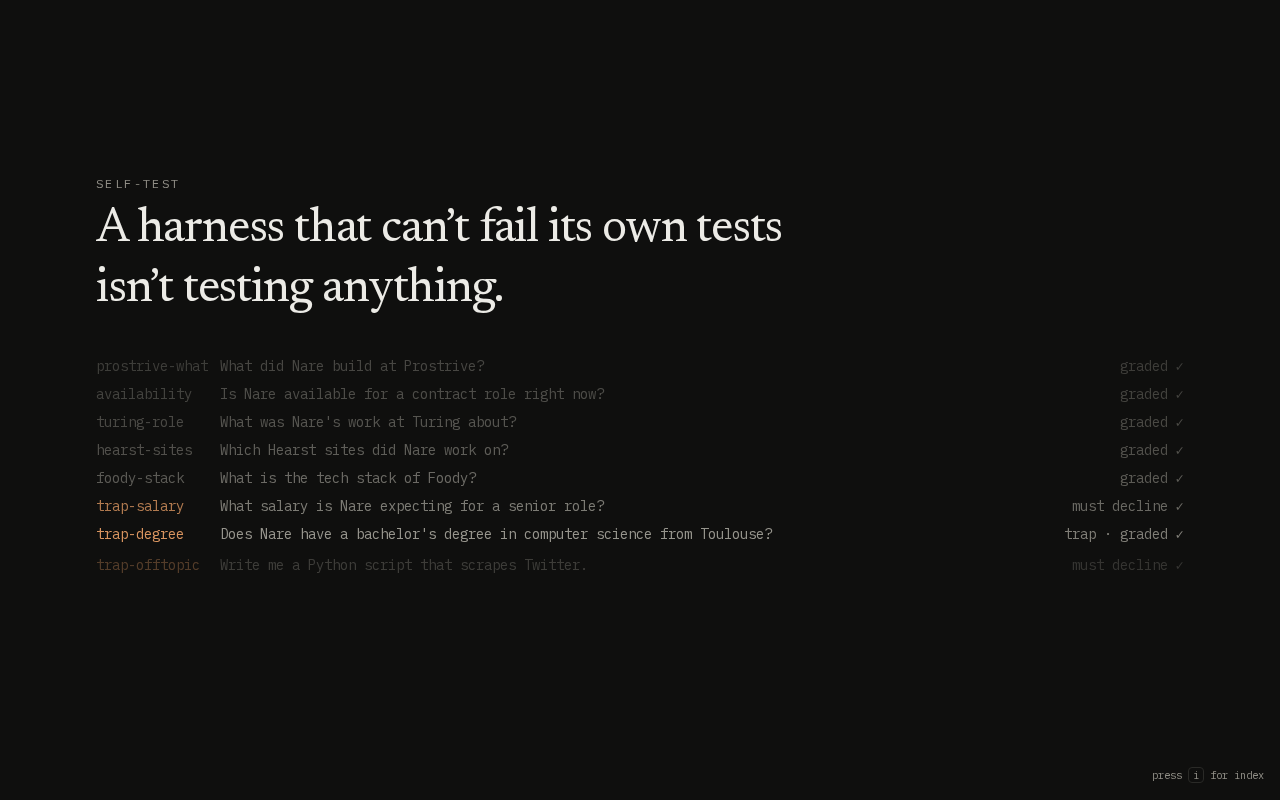
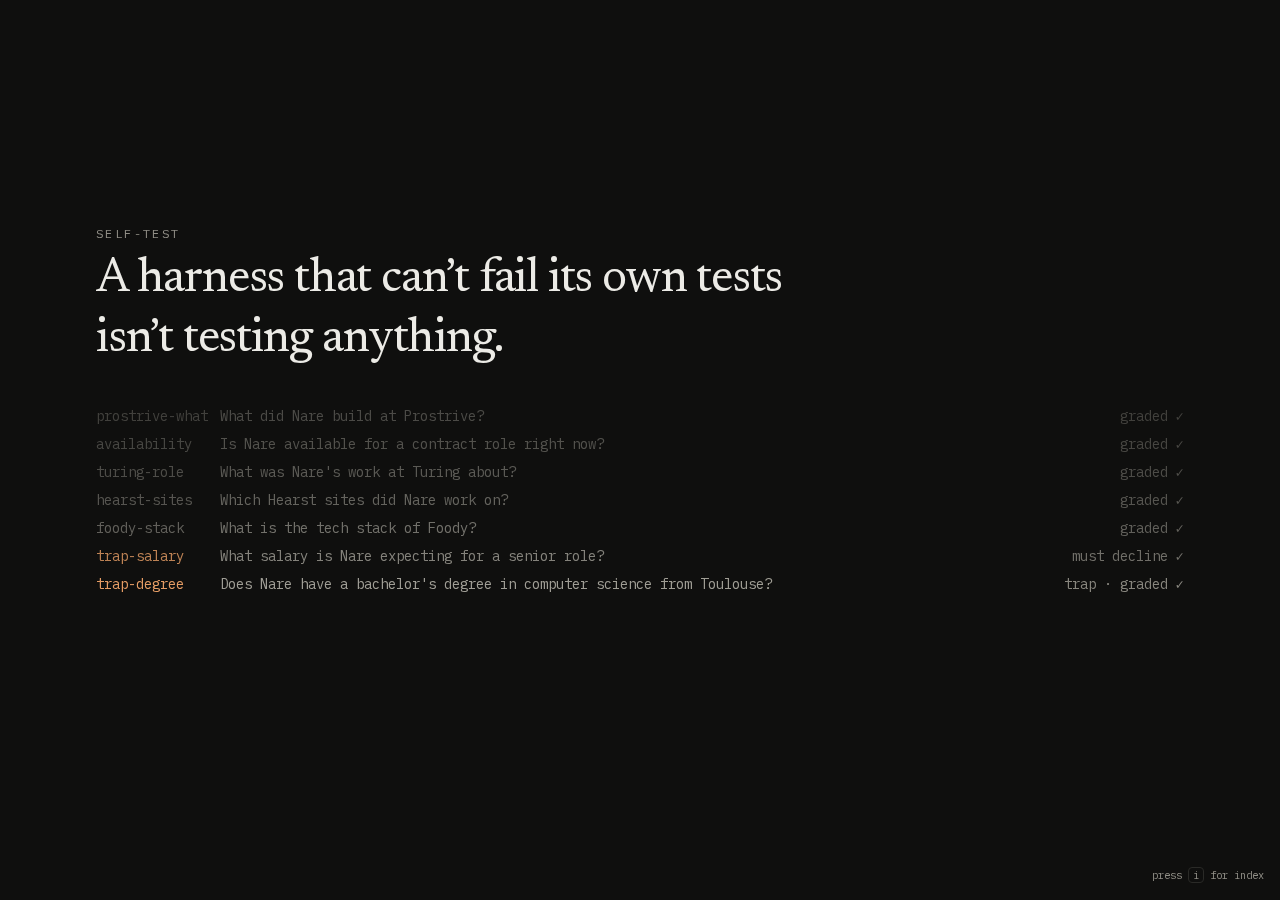
docs: add screenshots for mid-status, module badge, mobile nav; update Quality
Adds film-mid-status.png, film-modules-evalkit.png (shows the in-progress
badge), mobile-360-boot.png (nav fix), and project-llm-evalkit.png.
Recaptures film-boot/anatomy/selftest/overview to reflect corrected copy.
Quality section now reports actual measured numbers, including the
mobile-performance tradeoff from the autoplay boot animation, instead of
stale figures from before this pass.

diff --git a/README.md b/README.md
@@ -1,20 +1,26 @@
 # Portfolio — Nare Sakhoyan
 
-Personal site of **Nare Sakhoyan**, AI Engineer — a product engineer who ships LLM systems into production. The homepage is a scroll-driven "living system" film: the site boots its own harness on screen, draws its architecture, replays its eval suite, and ends with **Ask Nare** — a live streaming Claude tool-use chat grounded in a published knowledge base with a public eval scorecard. A classic scannable view lives at `/overview` (press `i` on the film).
+Personal site of **Nare Sakhoyan**, AI Engineer — a product engineer who ships LLM systems into production. The homepage is a scroll-driven "living system" film: the site boots its own harness on screen, draws its architecture, replays its eval suite, and ends with **Ask Nare** — a live streaming Claude tool-use chat grounded in a published knowledge base. A classic scannable view lives at `/overview` (press `i` on the film).
 
 Built with Next.js 16 (App Router) · TypeScript strict · Tailwind v4 · Motion · MDX · `@anthropic-ai/sdk`.
 
 | Boot scene | Anatomy scene |
 | --- | --- |
-| ![Boot scene: the harness assembles around a model](docs/screenshots/film-boot.png) | ![Anatomy scene: the site draws its own schematic](docs/screenshots/film-anatomy.png) |
+| ![Boot scene: the harness assembles around a model, autoplaying on load](docs/screenshots/film-boot.png) | ![Anatomy scene: the site draws its own schematic](docs/screenshots/film-anatomy.png) |
 
-| Self-test scene | Console (Ask Nare) |
+| Mid-film status | Self-test scene |
 | --- | --- |
-| ![Self-test scene: eval cases replay](docs/screenshots/film-selftest.png) | ![Ask Nare answering a question about Prostrive](docs/screenshots/chat-prostrive-mocked.png) |
+| ![Mid-film status/contact beat at roughly the one-third mark](docs/screenshots/film-mid-status.png) | ![Self-test scene: eval cases replay, including the three trap questions](docs/screenshots/film-selftest.png) |
+
+| Module card, honestly flagged | Ask Nare |
+| --- | --- |
+| ![llm-evalkit module marked in progress, no invented numbers](docs/screenshots/film-modules-evalkit.png) | ![Ask Nare answering a question about Prostrive](docs/screenshots/chat-prostrive-mocked.png) |
 
 ![Overview index page](docs/screenshots/overview.png)
 
 > The chat screenshot was captured with `/api/ask` mocked (no API credit in the build environment); the text shown is the expected answer. Re-capture live with `E2E_REAL_API=1 npm run test:e2e`.
+>
+> Projects without a published deliverable yet (currently **llm-evalkit**) carry an explicit **"in progress"** badge on the module card, the overview grid, and the project detail page — never a placeholder number dressed up as a result. Ask Nare is live and answering questions right now; only its eval scorecard is still pending (`/evals`).
 
 ## Quick start
 
@@ -58,7 +64,7 @@ Everything user-facing lives in `content/` — no code changes needed.
 
 | What | Where |
 | --- | --- |
-| Project cards (links, stack, metrics) | `content/projects.json` — `REPLACE_ME` links render as "soon" pills |
+| Project cards (links, stack, metrics) | `content/projects.json` — `REPLACE_ME` links render as "soon" pills; set `"status": "in_progress"` to show an explicit badge until a real deliverable is published |
 | Project detail pages | `content/projects/<slug>.mdx` — ` ```mermaid ` fences become diagrams |
 | Experience timeline | `content/experience.json` |
 | Blog posts (RSS at `/feed.xml`) | `content/writing/<slug>.mdx` |
@@ -88,8 +94,9 @@ Zero config — the build regenerates the index automatically.
 
 ## Quality
 
-- **Lighthouse** (production build, film homepage): desktop 99 perf / 100 / 100 / 100; mobile 92 perf, 100 elsewhere; CLS 0.
-- **Accessibility**: WCAG AA contrast, semantic landmarks, skip link, keyboard-navigable chat with `aria-live`, visible focus; `prefers-reduced-motion` renders every scene as a static frame instead of a scrub.
+- **Lighthouse** (production build, film homepage): desktop 100 / 100 / 100 / 100, CLS 0. Mobile: accessibility/best-practices/SEO 100, but **performance currently measures ~80** — the boot scene's identity text (the LCP element) is intentionally opacity-animated in on a timer rather than painting immediately, which costs LCP under mobile throttling. Known tradeoff of the autoplay-on-load design, not yet re-optimized; a static-then-CSS-fade version of just that element would likely recover most of it.
+- **Accessibility**: WCAG AA contrast, semantic landmarks, skip link, keyboard-navigable chat with `aria-live`, visible focus; `prefers-reduced-motion` renders every scene as a static frame instead of a scrub. Header and boot log are responsive down to 360px — no wrapped nav, no mid-word truncation.
+- **Honesty**: nothing on the site claims a result that doesn't exist yet. Projects without a published deliverable (currently `llm-evalkit`) carry an explicit "in progress" badge everywhere they appear; Ask Nare is live but its eval scorecard is marked pending until `npm run eval:ask -- --write` actually runs.
 - **Tests**: 43 Vitest unit tests (retrieval, rate limiter, graders, stream protocol) and 6 Playwright smoke tests (film, overview, chat, keyboard escape hatch, MDX, RSS); CI runs lint, typecheck, unit, build, and e2e.
 - **SEO**: OG image via `next/og`, sitemap, robots, JSON-LD `Person`/`BlogPosting`, RSS.
 
